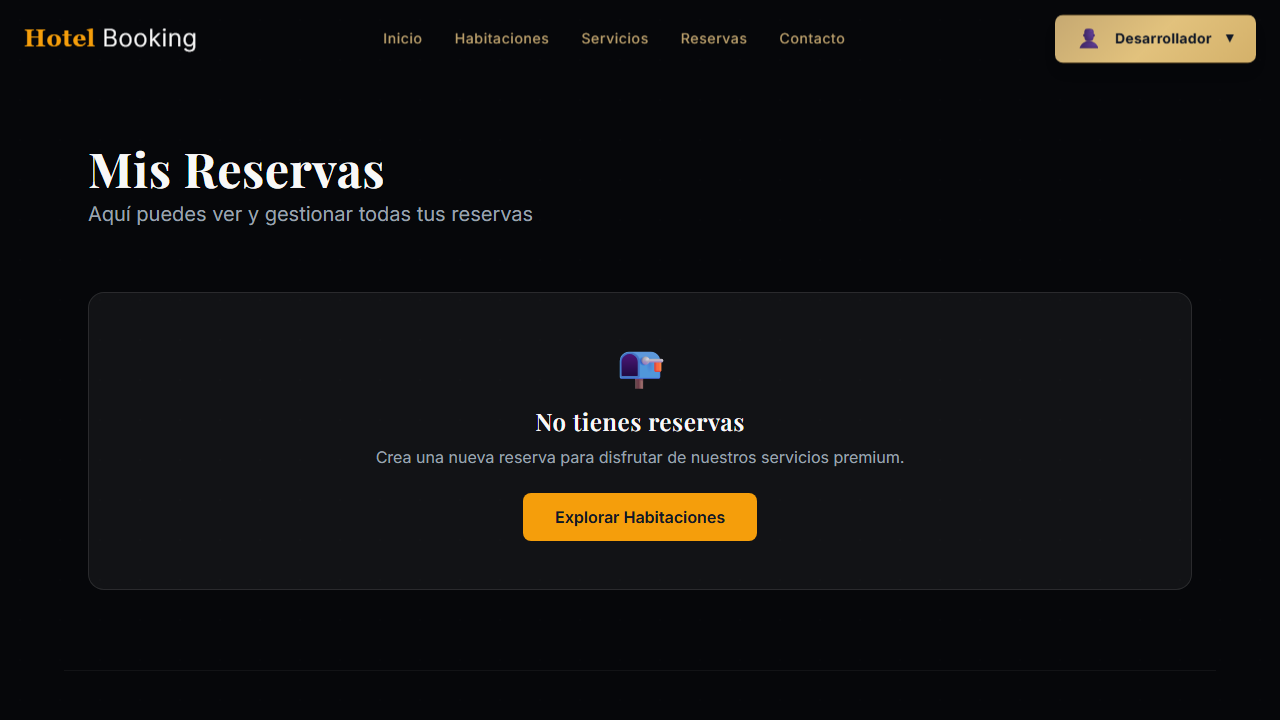
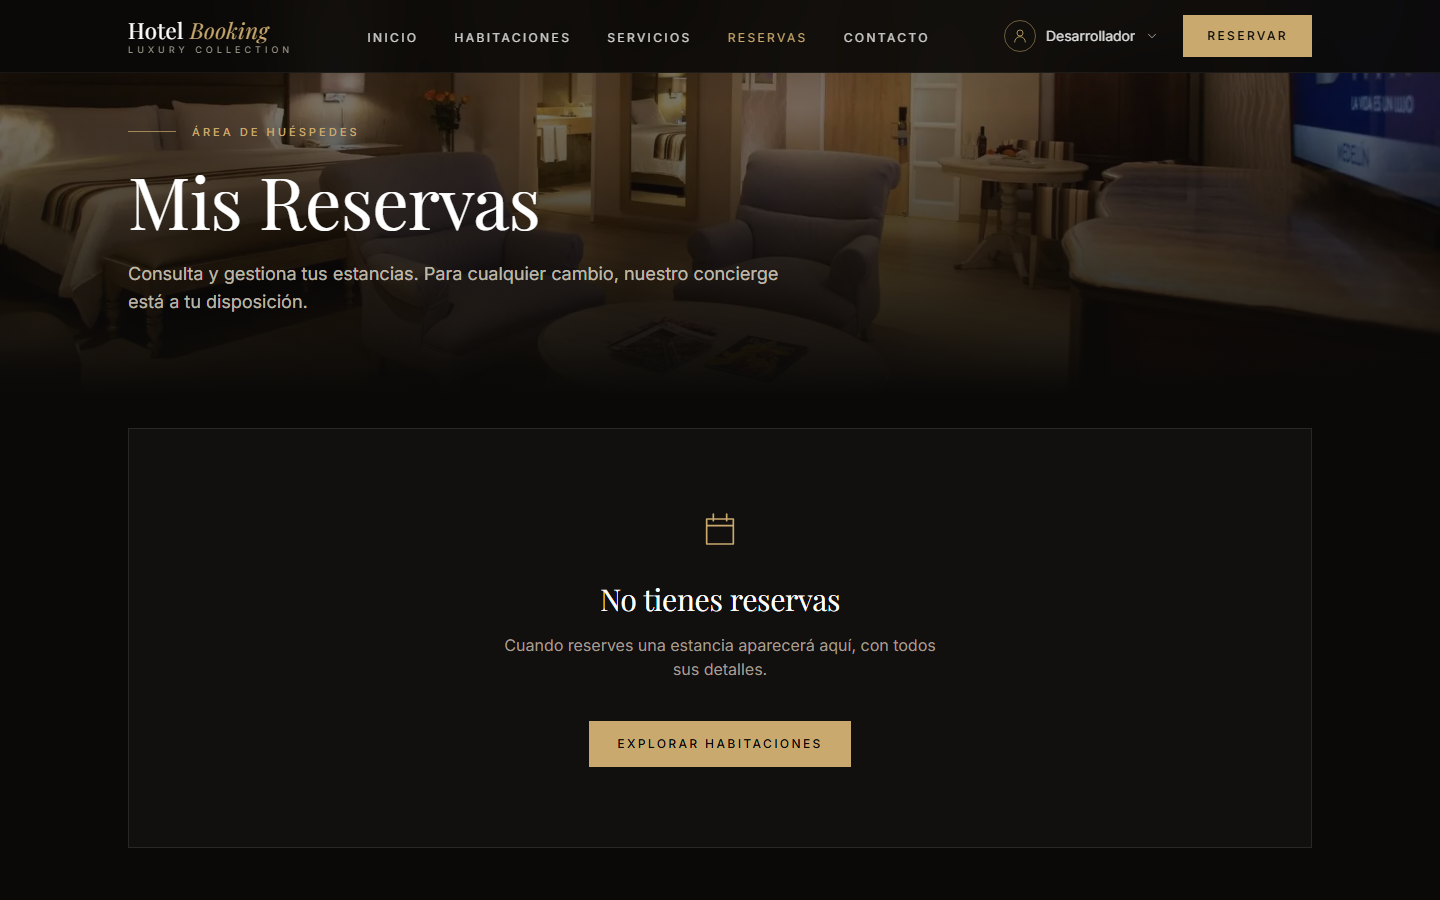
docs: README profesional con demo, arquitectura y capturas actualizadas

diff --git a/README.md b/README.md
@@ -2,162 +2,197 @@
 
 # Hotel Booking
 
-**Aplicación full-stack de reservas de hotel** — Next.js · TypeScript · Supabase
+**Plataforma full-stack de reservas para un hotel de lujo**
+
+Next.js 16 · React 19 · TypeScript · Supabase · Tailwind CSS
+
+[**Ver demo**](https://hotel-booking-beta-three.vercel.app) · [Arquitectura](#arquitectura) · [Ejecutar en local](#ejecutar-en-local)
 
 [![CI](https://github.com/Dev-Sot/hotel-booking/actions/workflows/ci.yml/badge.svg)](https://github.com/Dev-Sot/hotel-booking/actions/workflows/ci.yml)
-[![License: MIT](https://img.shields.io/badge/License-MIT-yellow.svg)](LICENSE)
-[![Next.js](https://img.shields.io/badge/Next.js-16-black)](https://nextjs.org/)
-[![TypeScript](https://img.shields.io/badge/TypeScript-5-blue)](https://www.typescriptlang.org/)
-[![Supabase](https://img.shields.io/badge/Supabase-Postgres%20%2B%20Auth-3ECF8E)](https://supabase.com/)
+[![Deploy](https://img.shields.io/badge/deploy-Vercel-000?logo=vercel)](https://hotel-booking-beta-three.vercel.app)
+[![Next.js](https://img.shields.io/badge/Next.js-16-000?logo=nextdotjs)](https://nextjs.org/)
+[![TypeScript](https://img.shields.io/badge/TypeScript-5-3178C6?logo=typescript&logoColor=white)](https://www.typescriptlang.org/)
+[![Supabase](https://img.shields.io/badge/Supabase-Postgres%20%2B%20Auth-3ECF8E?logo=supabase&logoColor=white)](https://supabase.com/)
+[![License: MIT](https://img.shields.io/badge/License-MIT-c9a96e.svg)](LICENSE)
+
+<br />
+
+<img src="docs/screenshots/home.png" alt="Página de inicio de Hotel Booking" width="100%" />
 
 </div>
 
+---
+
 ## Descripción
 
-Un hotel que gestiona reservas manualmente (o con hojas de cálculo y llamadas telefónicas) pierde tiempo, comete errores de doble reserva y no puede ofrecer autoservicio a sus huéspedes. **Hotel Booking** resuelve esto con una aplicación web donde el huésped se autentica, consulta habitaciones disponibles y reserva en tiempo real, mientras el hotel administra su catálogo desde un panel propio — con la disponibilidad garantizada a nivel de base de datos, no solo por confianza en el frontend.
+Muchos hoteles gestionan sus reservas por teléfono o en hojas de cálculo, y eso se traduce en dobles reservas, errores manuales y ninguna opción de autoservicio para el huésped.
 
-Construido como proyecto de portafolio full-stack: cubre autenticación real, autorización por roles, seguridad a nivel de fila (RLS), tests automatizados y CI, no solo una interfaz bonita.
+**Hotel Booking** es una aplicación web donde el huésped se autentica, explora el catálogo y reserva en tiempo real, mientras el hotel administra sus habitaciones desde un panel propio. La disponibilidad se garantiza **a nivel de base de datos**, no solo en el frontend.
 
-## Características principales
+Es un proyecto de portafolio full-stack que cubre autenticación real, autorización por roles, seguridad a nivel de fila (RLS), tests automatizados, CI y despliegue continuo, además de la interfaz.
 
-- 🔐 **Autenticación real** con Google OAuth y magic link (Supabase Auth)
-- 🛡 **Rutas protegidas en el servidor** vía middleware — no solo ocultas en el cliente
-- 🏨 **Catálogo de habitaciones** dinámico, con imágenes optimizadas (`next/image`)
-- 📅 **Reservas con validación de disponibilidad real**: no se puede reservar una habitación en fechas ya ocupadas, garantizado con una restricción `EXCLUDE` a nivel de Postgres
-- 👤 **Panel de administración** con CRUD de habitaciones, protegido por rol (`profiles.role = 'admin'`)
-- 📱 **Responsive** con menú móvil funcional
-- 🧪 **Tests automatizados**: unitarios (Vitest + Testing Library) y end-to-end (Playwright)
-- ⚙ **CI en GitHub Actions**: lint, typecheck, tests y build en cada Pull Request
-- 🧭 **Modo demo**: navegable sin backend configurado, con datos de ejemplo claramente identificados — nunca simula una sesión falsa
+## Características
 
-## Screenshots
-
-| Home | Habitaciones |
+| Área | Qué incluye |
 |---|---|
-| ![Home](docs/screenshots/home.png) | ![Habitaciones](docs/screenshots/habitaciones.png) |
+| **Autenticación** | Google OAuth y magic link con Supabase Auth; sesión en cookies (`@supabase/ssr`) |
+| **Autorización** | Rutas `/admin` y `/reservas` protegidas en el servidor mediante middleware; rol `admin` en la tabla `profiles` |
+| **Reservas** | Validación de fechas en cliente y restricción `EXCLUDE` en Postgres contra reservas solapadas |
+| **Catálogo** | Habitaciones dinámicas desde Supabase con imágenes optimizadas (`next/image`) |
+| **Administración** | CRUD de habitaciones, métricas del catálogo y publicación/ocultación de habitaciones |
+| **Interfaz** | Diseño editorial oscuro, responsive, animaciones sutiles con Framer Motion e iconografía SVG propia |
+| **Calidad** | Tests unitarios (Vitest + Testing Library), e2e (Playwright), ESLint y `tsc` en CI |
+| **Modo demo** | Sin backend configurado, la app sigue siendo navegable con datos de ejemplo claramente señalados |
 
-| Mis Reservas | Panel de Admin |
+## Capturas
+
+<table>
+  <tr>
+    <td width="50%"><img src="docs/screenshots/home-rooms.png" alt="Habitaciones destacadas" /><br /><sub><b>Inicio</b> · habitaciones destacadas</sub></td>
+    <td width="50%"><img src="docs/screenshots/habitaciones.png" alt="Catálogo de habitaciones" /><br /><sub><b>Habitaciones</b> · catálogo con detalle y tarifa</sub></td>
+  </tr>
+  <tr>
+    <td><img src="docs/screenshots/servicios.png" alt="Servicios del hotel" /><br /><sub><b>Servicios</b></sub></td>
+    <td><img src="docs/screenshots/login.png" alt="Inicio de sesión" /><br /><sub><b>Acceso</b> · Google OAuth y magic link</sub></td>
+  </tr>
+  <tr>
+    <td><img src="docs/screenshots/reservas.png" alt="Mis reservas" /><br /><sub><b>Mis reservas</b> · ruta protegida</sub></td>
+    <td><img src="docs/screenshots/admin.png" alt="Panel de administración" /><br /><sub><b>Panel de administración</b> · CRUD por rol</sub></td>
+  </tr>
+</table>
+
+<p align="center">
+  <img src="docs/screenshots/mobile.png" alt="Vista móvil" width="280" /><br />
+  <sub>Vista móvil</sub>
+</p>
+
+## Stack
+
+| Capa | Tecnologías |
 |---|---|
-| ![Mis Reservas](docs/screenshots/reservas.png) | ![Panel de Admin](docs/screenshots/admin.png) |
-
-## Tecnologías utilizadas
-
-**Frontend:**
-Next.js 16 (App Router, Turbopack, React Compiler) · React 19 · TypeScript · Tailwind CSS · Framer Motion
-
-**Backend:**
-Next.js Route Handlers · Next.js Middleware · Supabase Auth (Google OAuth / magic link)
-
-**Base de datos:**
-Supabase (PostgreSQL) · Row Level Security · restricciones `EXCLUDE`/`CHECK` a nivel de esquema
-
-**Herramientas:**
-Vitest · Testing Library · Playwright · ESLint · GitHub Actions · npm
+| Frontend | Next.js 16 (App Router, Turbopack, React Compiler), React 19, TypeScript, Tailwind CSS, Framer Motion |
+| Backend | Next.js Middleware, Route Handlers, Supabase Auth |
+| Base de datos | Supabase (PostgreSQL), Row Level Security, restricciones `EXCLUDE` / `CHECK` |
+| Testing | Vitest, Testing Library, Playwright |
+| DevOps | GitHub Actions (lint, typecheck, tests, build, e2e), Vercel |
 
 ## Arquitectura
+
+```mermaid
+flowchart LR
+    U[Navegador] -->|HTTPS| MW[Next.js Middleware<br/>verifica sesión]
+    MW --> APP[App Router<br/>páginas públicas, auth, admin]
+    APP --> CTX[Contextos React<br/>AuthContext · ReservaContext]
+    CTX --> API[Capa de datos<br/>src/lib/api]
+    API --> SB[(Supabase<br/>Auth + PostgreSQL)]
+    MW -. cookies de sesión .-> SB
+    SB --> RLS[RLS + EXCLUDE<br/>sin reservas solapadas]
+```
+
+**Flujo de una reserva**
+
+1. El middleware valida la cookie de sesión de Supabase antes de renderizar rutas protegidas.
+2. `ReservaForm` valida nombre y rango de fechas en el cliente para dar feedback inmediato.
+3. `lib/api/reservas.ts` inserta la reserva; RLS asegura que cada usuario solo escriba las suyas.
+4. La restricción `EXCLUDE` de Postgres rechaza cualquier solapamiento, incluso con peticiones concurrentes.
+
+**Decisiones técnicas**
+
+- **Sesión en cookies, no en `localStorage`**: así el middleware puede verificarla en el servidor antes de enviar HTML protegido.
+- **Doble validación de disponibilidad**: en la aplicación (mensajes claros) y en la base de datos (a prueba de condiciones de carrera).
+- **Degradación honesta**: sin Supabase configurado, la app muestra datos de ejemplo marcados como demo; nunca simula una sesión en producción.
+- **Sistema de diseño propio**: tokens de color y tipografía en `tailwind.config.ts` y componentes (`btn-gold`, `field`, `eyebrow`) en `globals.css`.
+
+### Estructura del proyecto
 
 ```
 src/
 ├── app/
-│   ├── (public)/       # Home, Habitaciones, Servicios, Contacto, Reservas
-│   ├── (auth)/         # Login
-│   ├── (admin)/        # Panel de administración (CRUD habitaciones)
-│   ├── api/mock-auth/  # Endpoint del modo demo (cookie de sesión simulada)
-│   ├── sitemap.ts, robots.ts
-│   └── layout.tsx
+│   ├── (public)/          Inicio, Habitaciones, Servicios, Contacto, Reservas
+│   ├── (auth)/login/      Acceso con Google y magic link
+│   ├── (admin)/admin/     Panel de administración
+│   ├── api/mock-auth/     Sesión simulada (solo modo demo local)
+│   └── layout.tsx         Fuentes, metadatos SEO y providers
 ├── components/
-│   ├── ui/             # Button, Input, Modal — componentes base reutilizables
-│   ├── shared/          # Navbar, Footer, AuthGuard
-│   └── forms/           # ReservaForm
-├── context/             # AuthContext, ReservaContext (estado global de React)
-├── hooks/                # Hooks reutilizables (useFetch)
+│   ├── ui/                Button, Input, Modal, Icon
+│   ├── shared/            Navbar, Footer, PageHero, SectionHeading, Reveal, AuthGuard
+│   └── forms/             ReservaForm
+├── context/               AuthContext, ReservaContext
 ├── lib/
-│   ├── supabase/         # Clientes de Supabase: browser, server (SSR), middleware
-│   ├── api/               # Capa de acceso a datos: auth, reservas, habitaciones, profile
-│   ├── data/               # Datos de ejemplo (solo modo demo)
-│   └── utils/               # validators, formatters, dateHelpers, constants, logger
-└── types/                    # Tipos TypeScript centralizados (models, forms, ui)
-
-middleware.ts              # Protege /admin y /reservas a nivel de servidor
-supabase/schema.sql         # Esquema, políticas RLS y restricción anti-doble-reserva
-tests/e2e/                   # Smoke tests de Playwright
+│   ├── supabase/          Clientes browser, server (SSR) y middleware
+│   ├── api/               auth, reservas, habitaciones, profile
+│   ├── data/              Datos de ejemplo (modo demo)
+│   └── utils/             validators, formatters, dateHelpers, constants
+└── types/                 Modelos y props tipados
+middleware.ts              Protección de /admin y /reservas
+supabase/schema.sql        Esquema, políticas RLS y restricción anti doble reserva
+tests/e2e/                 Tests de Playwright
 ```
 
-**Decisiones clave:**
-- La sesión de Supabase vive en **cookies** (`@supabase/ssr`), no en `localStorage`, para que el middleware pueda verificarla en el servidor antes de renderizar una ruta protegida.
-- La disponibilidad de una habitación se valida dos veces: en la aplicación (mensaje de error claro) y en la base de datos (restricción `EXCLUDE`, a prueba de condiciones de carrera).
-- Sin Supabase configurado, la app no falla ni finge: cae a datos de ejemplo explícitamente marcados como demo.
+## Ejecutar en local
 
-## Instalación
+**Requisitos:** Node.js 20 o superior y npm.
 
 ```bash
-# 1. Clonar el repositorio
 git clone https://github.com/Dev-Sot/hotel-booking.git
 cd hotel-booking
-
-# 2. Instalar dependencias
 npm install
-
-# 3. Configurar variables de entorno
 cp .env.example .env.local
-# completa .env.local con tus credenciales (ver siguiente sección)
-
-# 4. (Opcional) Crear el esquema en tu proyecto Supabase
-# Supabase Dashboard → SQL Editor → pegar y ejecutar supabase/schema.sql
-
-# 5. Ejecutar en modo desarrollo
 npm run dev
 ```
 
-Abre [http://localhost:3000](http://localhost:3000).
+Abre [http://localhost:3000](http://localhost:3000). Sin credenciales de Supabase la app arranca en **modo demo** con el catálogo de ejemplo.
 
-## Variables de entorno
+### Conectar Supabase (opcional)
 
-Copia `.env.example` a `.env.local`:
+1. Crea un proyecto en [supabase.com](https://supabase.com).
+2. En **SQL Editor**, ejecuta [`supabase/schema.sql`](supabase/schema.sql).
+3. Activa el proveedor **Google** en *Authentication → Providers*.
+4. Completa `.env.local`:
 
 ```bash
-# Supabase (https://app.supabase.com → Project Settings → API)
-NEXT_PUBLIC_SUPABASE_URL=
-NEXT_PUBLIC_SUPABASE_ANON_KEY=
-
-# URL pública de la app (redirectTo del login OAuth)
+NEXT_PUBLIC_SUPABASE_URL=https://xxxx.supabase.co
+NEXT_PUBLIC_SUPABASE_ANON_KEY=eyJ...
 NEXT_PUBLIC_APP_URL=http://localhost:3000
 
-# Modo demo — SOLO desarrollo local. Simula una sesión sin backend real.
-# Debe estar en "false" (o ausente) en cualquier entorno público.
+# Solo desarrollo local: simula una sesión sin backend. Nunca en producción.
 NEXT_PUBLIC_USE_MOCK_AUTH=false
 ```
 
-Sin `NEXT_PUBLIC_SUPABASE_URL`/`NEXT_PUBLIC_SUPABASE_ANON_KEY`, la app funciona en modo demo de solo lectura con datos de ejemplo. Con `NEXT_PUBLIC_USE_MOCK_AUTH=true` puedes navegar `/admin` y `/reservas` sin un proyecto Supabase real.
+Para dar permisos de administrador, cambia `role` a `admin` en la fila del usuario en la tabla `profiles`. A propósito, no existe forma de hacerlo desde el cliente.
 
-## Uso
+### Scripts
 
-```bash
-npm run dev         # servidor de desarrollo (http://localhost:3000)
-npm run build       # build de producción
-npm run start       # sirve el build de producción
-npm run lint        # ESLint
-npm run typecheck   # tsc --noEmit
-npm run test        # tests unitarios (Vitest)
-npm run test:e2e    # tests end-to-end (Playwright)
-```
+| Comando | Descripción |
+|---|---|
+| `npm run dev` | Servidor de desarrollo |
+| `npm run build` | Build de producción |
+| `npm run start` | Sirve el build de producción |
+| `npm run lint` | ESLint |
+| `npm run typecheck` | Comprobación de tipos con `tsc` |
+| `npm run test` | Tests unitarios (Vitest) |
+| `npm run test:e2e` | Tests end-to-end (Playwright) |
 
-Para dar permisos de administrador a un usuario real, edita su fila en la tabla `profiles` desde el dashboard de Supabase y cambia `role` a `admin` — no existe (a propósito) una forma de hacerlo desde el cliente.
+## Despliegue
+
+La app se despliega en **Vercel** con cada push a `main`. Variables necesarias en el proyecto de Vercel: `NEXT_PUBLIC_SUPABASE_URL`, `NEXT_PUBLIC_SUPABASE_ANON_KEY` y `NEXT_PUBLIC_APP_URL`. Agrega el dominio de producción como *Redirect URL* en Supabase Auth.
 
 ## Roadmap
 
-- [ ] Formulario de contacto conectado a un endpoint real (email o tabla en Supabase)
+- [ ] Formulario de contacto conectado a un endpoint real
 - [ ] React Hook Form + Zod para validación de formularios
-- [ ] Subida de imágenes a Supabase Storage desde el panel de administración
-- [ ] Auditoría de accesibilidad con axe-core
-- [ ] Internacionalización (i18n)
+- [ ] Subida de imágenes a Supabase Storage desde el panel
 - [ ] Pasarela de pagos (Stripe) para confirmar reservas
+- [ ] Internacionalización (ES / EN)
+- [ ] Auditoría de accesibilidad con axe-core
 
 ## Autor
 
-**Dev-Sot**
-GitHub: [@Dev-Sot](https://github.com/Dev-Sot)
+**Dev-Sot**. Desarrollador full-stack.
+
+- GitHub: [@Dev-Sot](https://github.com/Dev-Sot)
+- Demo: [hotel-booking-beta-three.vercel.app](https://hotel-booking-beta-three.vercel.app)
 
 ## Licencia
 
-Distribuido bajo la licencia MIT. Ver [`LICENSE`](LICENSE) para más información.
+Distribuido bajo la licencia MIT. Consulta [`LICENSE`](LICENSE).
